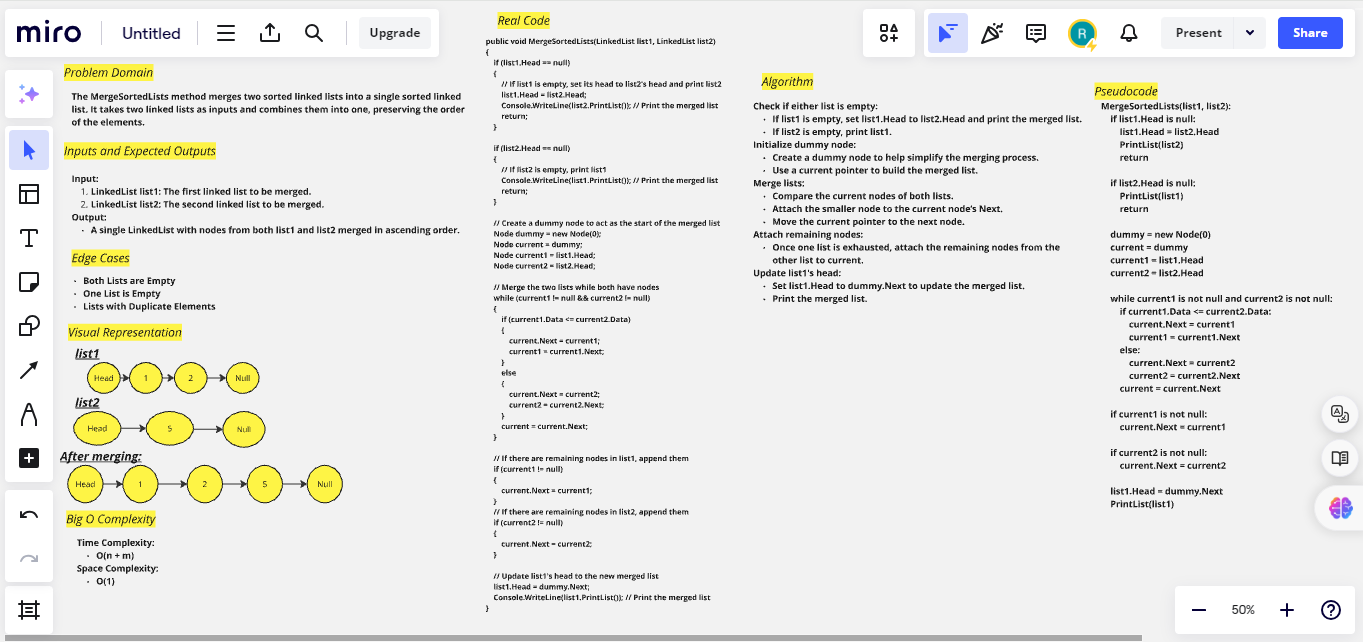
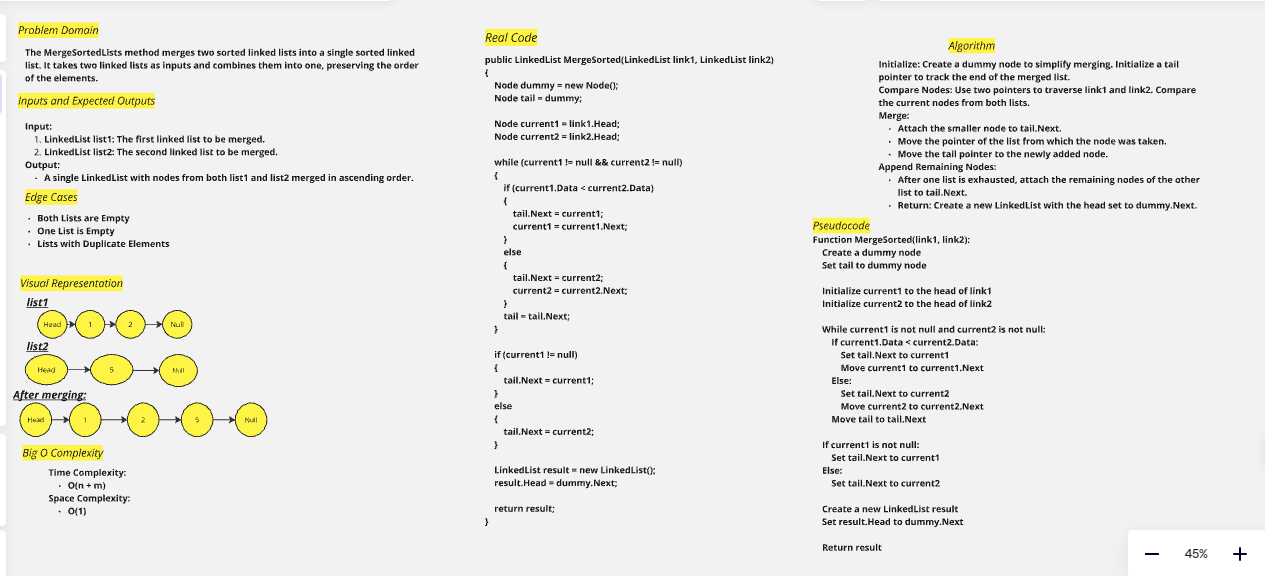
some tweaking

diff --git a/C#BASICS/LinkedList.cs b/C#BASICS/LinkedList.cs
@@ -9,11 +9,16 @@ namespace C_BASICS
     public class LinkedList
     {
 
-        public Node Head ;
+        public Node Head;
 
         public LinkedList(Node head)
         {
             this.Head = head;
+        }
+
+        public LinkedList()
+        {
+
         }
 
         //Adding node at the beginning of the list
@@ -33,14 +38,14 @@ namespace C_BASICS
                 return;
             }
 
-        
+
             if (Head.Data == data)
             {
-                Head = Head.Next; 
+                Head = Head.Next;
                 return;
             }
 
-          
+
             Node current = Head;
             Node previous = null;
 
@@ -50,14 +55,14 @@ namespace C_BASICS
                 current = current.Next;
             }
 
-         
+
             if (current == null)
             {
                 Console.WriteLine("Node with data not found.", data);
                 return;
             }
 
-          
+
             previous.Next = current.Next;
         }
 
@@ -73,7 +78,7 @@ namespace C_BASICS
                 {
 
                     Console.WriteLine(node.Data);
-                    eliments += node.Data+" ";
+                    eliments += node.Data + " ";
                     node = node.Next;
                 }
             }
@@ -127,7 +132,7 @@ namespace C_BASICS
                     current = current.Next;
                 }
 
-              string eliments= PrintList();
+                string eliments = PrintList();
                 return eliments;
 
             }
@@ -142,62 +147,45 @@ namespace C_BASICS
             return "";
         }
 
-        public string MergeSortedLists(LinkedList list1, LinkedList list2)
+        public LinkedList MergeSorted(LinkedList link1, LinkedList link2)
         {
-            if (list1.Head == null)
+
+            Node dummy = new Node();
+            Node tail = dummy;
+
+            Node current1 = link1.Head;
+            Node current2 = link2.Head;
+
+
+            while (current1 != null && current2 != null)
             {
-                list1.Head = list2.Head;
-                list2.PrintList();
-                return "";
+                if (current1.Data < current2.Data)
+                {
+                    tail.Next = current1;
+                    current1 = current1.Next;
+                }
+                else
+                {
+                    tail.Next = current2;
+                    current2 = current2.Next;
+                }
+                tail = tail.Next;
             }
-            else if (list2.Head == null)
+
+            if (current1 != null)
             {
-                list1.PrintList();
-                return "";
-            }
-           else  if(list1.Head==null && list2.Head == null)
-            {
-                Console.WriteLine("Both lists are empty");
-                return "Both lists are empty";
+                tail.Next = current1;
             }
             else
             {
-
-
-                Node dummy = new Node(0);
-                Node current = dummy;
-
-                Node current1 = list1.Head;
-                Node current2 = list2.Head;
-
-                while (current1 != null && current2 != null)
-                {
-                    if (current1.Data <= current2.Data)
-                    {
-                        current.Next = current1;
-                        current1 = current1.Next;
-                    }
-                    else
-                    {
-                        current.Next = current2;
-                        current2 = current2.Next;
-                    }
-                    current = current.Next;
-                }
-
-                if (current1 != null)
-                {
-                    current.Next = current1;
-                }
-                if (current2 != null)
-                {
-                    current.Next = current2;
-                }
-
-                list1.Head = dummy.Next;
-                PrintList();
-                return "";
+                tail.Next = current2;
             }
+
+            LinkedList result = new LinkedList();
+            result.Head = dummy.Next;
+
+            result.PrintList();
+            return result;
         }
 
 

diff --git a/C#BASICS/Program.cs b/C#BASICS/Program.cs
@@ -12,6 +12,7 @@ namespace C_BASICS
             LinkedList list = new LinkedList(new Node(7));
             list.addtoHead(new Node(6));
             list.addtoHead(new Node(5));
+            list.addtoHead(new Node(4));
 
             
 
@@ -27,19 +28,14 @@ namespace C_BASICS
 
             LinkedList list2 = new LinkedList(new Node(3));
             list2.addtoHead(new Node(2));
+           
+            list2.addtoHead(new Node(0));
+            list2.addtoHead(new Node(0));
             list2.addtoHead(new Node(1));
-
             Console.WriteLine("Merged List:");
-            list.MergeSortedLists(list, list2);
+            list.MergeSorted(list, list2);       
 
-            LinkedList list3= new LinkedList(null);
-            LinkedList list4 = new LinkedList(new Node(3));
-            list4.addtoHead(new Node(2));
-            list4.addtoHead(new Node(1));
-
-            Console.WriteLine("Merged empty list:");
-            list3.MergeSortedLists(list4, list3);
-
+            
         }
 
 
